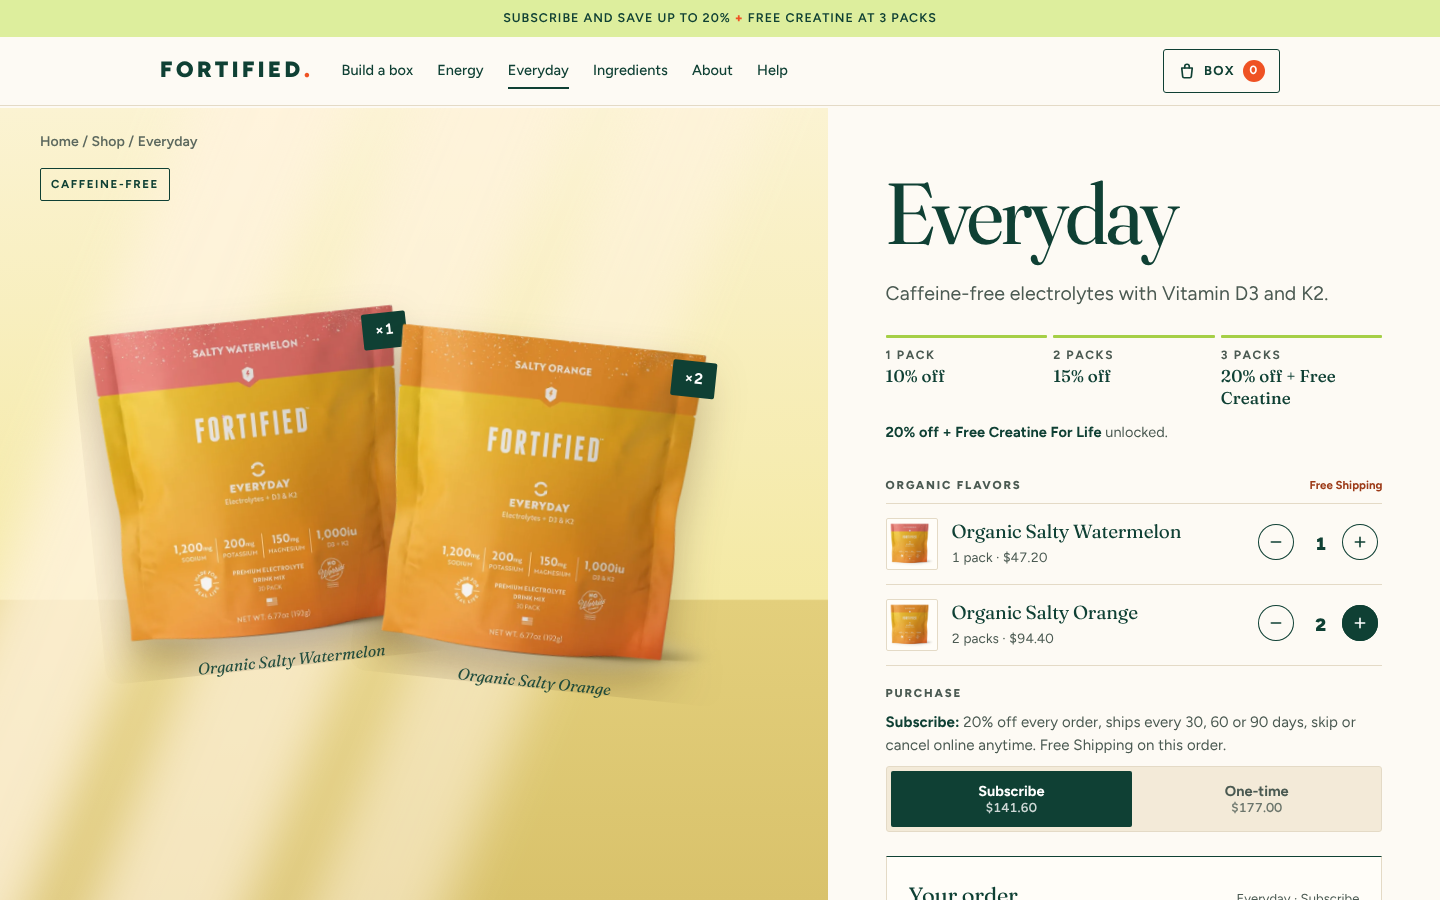
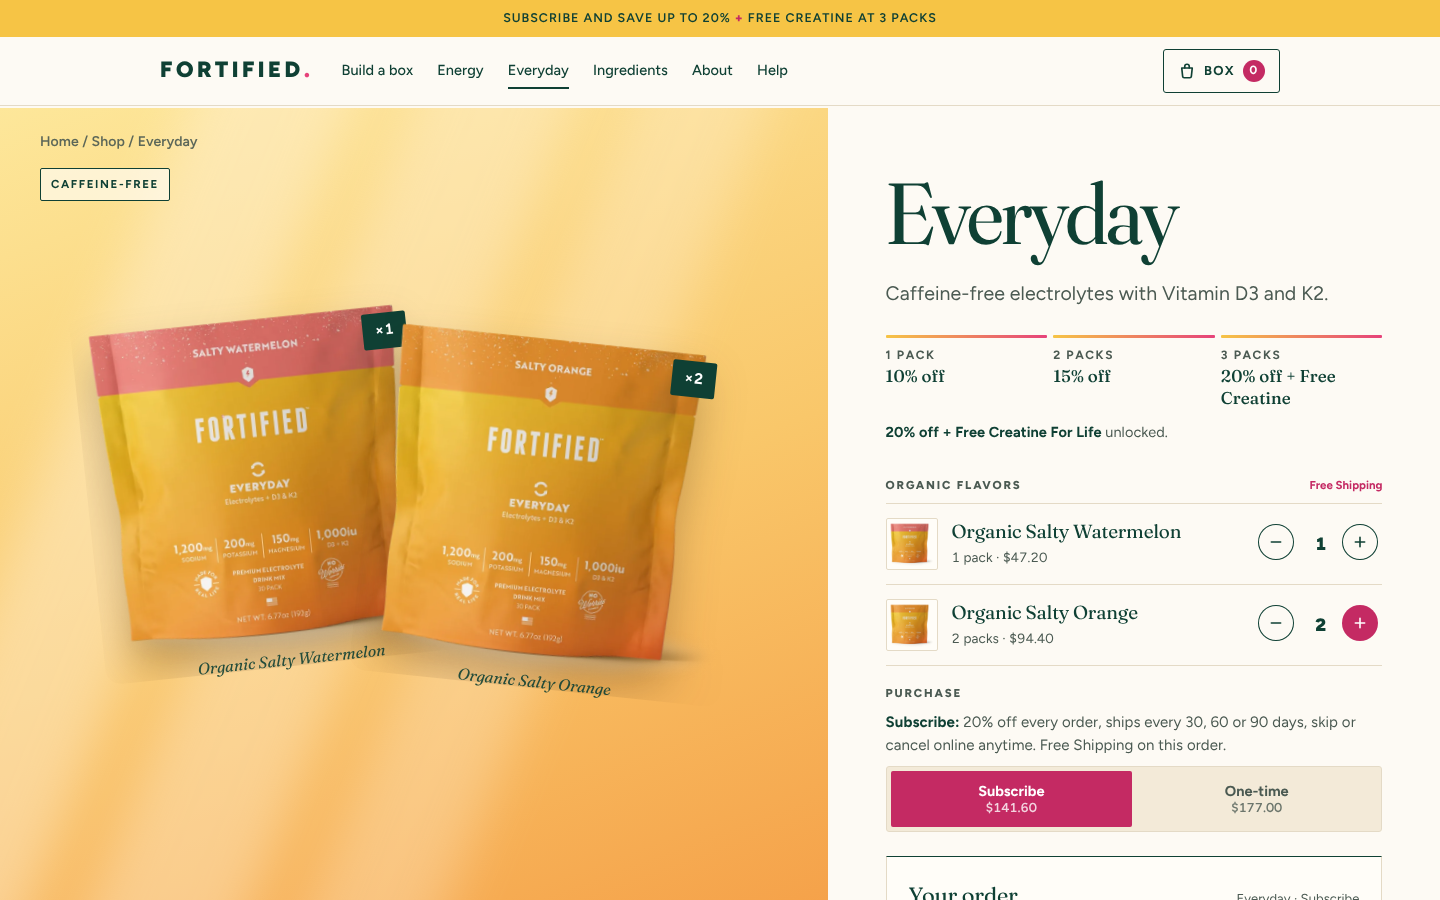
Palette v5: Gen Z pack-forward color on the MAHA trust base
Saturated magenta, sunshine, tangerine, plum and lemon-lime sampled from
the Fortified pouches, used as full bands, flavor-coded formula tiles,
colored savings tiers and a pink-to-sun closing gradient. Sticker
badges carry only printed claims. Gen Z research added to the brief.

Claude-Session: https://claude.ai/code/session_01Hy9Tx2bmaV9u7xgwG4XAGv

diff --git a/mockups/site/site.css b/mockups/site/site.css
@@ -1262,3 +1262,93 @@ section[aria-labelledby="proof-h"] { background: var(--peach); }
 :root { --accent-ink: #9c3a17; }
 section[aria-labelledby="proof-h"] blockquote { color: var(--ink); }
 section[aria-labelledby="label-h"] .lede, section[aria-labelledby="pr-h"] p { color: #33433b; }
+
+/* ======================================================================
+   PALETTE v5 "Pack-forward pop" (2026-11-16): Gen Z saturation on the
+   MAHA trust base. Colors sampled from the Fortified pouches and the
+   brand's fruit photography; cream base and forest text kept.
+   ====================================================================== */
+:root {
+  --pop-magenta: #e6427a;   /* Energy pouch pink, Poppi-adjacent */
+  --pop-berry: #c42a63;     /* magenta deepened for text and buttons (5.2:1 cream, 5.5:1 with white) */
+  --pop-plum: #806793;      /* Energy pouch base */
+  --pop-aubergine: #2d1a3d; /* deep plum for dark bands */
+  --pop-sun: #f6c445;       /* Everyday pouch yellow */
+  --pop-tangerine: #f78523; /* Everyday fruit photo */
+  --pop-lime: #d9f075;      /* lemon-lime */
+  --pop-blush: #fbd3df;
+  --accent: var(--pop-berry);
+  --accent-ink: var(--pop-berry);
+}
+.display em { color: var(--pop-berry); }
+
+/* Header */
+.bar { background: var(--pop-sun); color: var(--ink); }
+.bar b { color: var(--pop-berry); }
+.logo i { color: var(--pop-magenta); }
+.cart-count { background: var(--pop-berry); color: #fff; }
+
+/* Buttons: the money action is berry */
+.btn--money { --bg: var(--pop-berry); --fg: #fff; }
+.btn--money:hover { --bg: #a61f51; }
+
+/* Hero: the counter sits in pack-colored light, plus sticker badges */
+.p-hero__set { background: linear-gradient(115deg, #f9b7cb 0%, #fbd2a4 48%, #fde58f 100%); }
+.p-hero__set::before { opacity: .55; }
+.p-hero__set::after { background: linear-gradient(180deg, rgba(120,40,60,.16), transparent 45%); }
+.sticker { position: absolute; z-index: 3; width: 112px; height: 112px; border-radius: 50%; display: grid; place-items: center; text-align: center; font-weight: 800; font-size: 13px; letter-spacing: .06em; text-transform: uppercase; line-height: 1.05; box-shadow: 0 10px 22px -10px rgba(60,20,40,.5); }
+.sticker b { display: block; font-family: var(--serif); font-size: 34px; font-weight: 600; letter-spacing: -.02em; text-transform: none; }
+.sticker--a { top: 9%; left: 6%; background: var(--pop-lime); color: var(--ink); transform: rotate(-10deg); }
+.sticker--b { top: 12%; right: 7%; background: var(--pop-berry); color: #fff; transform: rotate(9deg); }
+
+/* Bands: flavor-coded color fields */
+section[aria-labelledby="label-h"] { background: var(--pop-lime); }
+section[aria-labelledby="label-h"] .lede { color: #2c3a14; }
+.backpack .p-handnote { background: var(--pop-lime); }
+section[aria-labelledby="fx-h"] { background: var(--paper); }
+.p-formula { border-radius: 4px; padding: 18px 18px 6px; color: var(--ink); }
+.p-formula:nth-child(1) { background: linear-gradient(160deg, var(--pop-sun), var(--pop-tangerine)); }
+.p-formula:nth-child(2) { background: linear-gradient(160deg, var(--pop-magenta), var(--pop-plum)); color: #fff; }
+.p-formula:nth-child(2) .p-formula__text p { color: rgba(255,255,255,.9); }
+.p-formula__text { border-bottom: 0; }
+.p-formula__text p { color: #3a2a0c; }
+section[aria-labelledby="pr-h"] { background: var(--pop-tangerine); }
+section[aria-labelledby="pr-h"] .display em { color: var(--pop-aubergine); }
+section[aria-labelledby="pr-h"] p { color: #2a1a05; }
+section[aria-labelledby="pr-h"] .p-promise { border-top-color: var(--ink); }
+section[aria-labelledby="proof-h"] { background: var(--pop-blush); }
+
+/* Tiers: three colors climbing to the best value */
+.p-tiers { border-top: 0; border-bottom: 0; gap: 10px; }
+.p-tiers > div, .p-tiers > div + div { border: 0; padding: 26px 24px; border-radius: 4px; }
+.p-tiers > div:nth-child(1) { background: var(--pop-sun); }
+.p-tiers > div:nth-child(2) { background: var(--pop-blush); }
+.p-tiers > div.is-best { background: var(--pop-plum); color: #fff; }
+.p-tiers .is-best .p-tiers__pct { color: #fff; }
+.p-tiers .is-best p { color: rgba(255,255,255,.88); }
+
+/* Dark bands go aubergine, footer stays forest */
+.on-dark { background: var(--pop-aubergine); }
+.on-dark .display em { color: var(--pop-sun); }
+.ui__toast { background: var(--pop-lime); }
+.p-close { background: linear-gradient(120deg, var(--pop-magenta) 0%, var(--pop-tangerine) 60%, var(--pop-sun) 100%); color: var(--pop-aubergine); }
+.p-close .display em { color: #fff; }
+.p-close .lede { color: var(--pop-aubergine); }
+.p-close .btn--money { --bg: var(--pop-aubergine); --fg: #fff; }
+.letter__body p:first-child::first-letter { color: var(--pop-magenta); }
+.letter__sign { color: var(--pop-berry); }
+
+/* Product page: stages in each pouch's own saturated light */
+.pd__stage, .field--everyday.pd__stage { background: linear-gradient(160deg, #fde79a 0%, #f9c76a 55%, #f5a24a 100%); }
+.field--energy.pd__stage { background: linear-gradient(160deg, #fbc4d4 0%, #ef8fb0 55%, #b98fc2 100%); }
+.pd__stage::before { opacity: .45; }
+.pd__count { background: var(--pop-berry); color: #fff; }
+.tiers__steps li.is-on .tiers__seg, .progress__fill { background: linear-gradient(90deg, var(--pop-sun), var(--pop-magenta)); }
+.tiers__steps li.is-next .tiers__seg { background: repeating-linear-gradient(90deg, var(--pop-magenta) 0 3px, transparent 3px 7px); }
+.field--everyday .tag, .field--energy .tag { color: var(--ink); background: rgba(255,255,255,.6); }
+.pd-proof .stars { color: var(--pop-sun); }
+.opt__aside, .item--save .item__name, .item--save .item__val, .total-row--save, .pd__save, .p-never li span:last-child, .item--add .item__name::before { color: var(--pop-berry); }
+::selection { background: var(--pop-sun); color: var(--ink); }
+@media (max-width: 640px) { .sticker { width: 84px; height: 84px; font-size: 10.5px; } .sticker b { font-size: 26px; } }
+[data-pp] button[aria-pressed="true"] { background: var(--pop-berry); color: #fff; }
+.stepper.stepper--sm button:not(:disabled):hover { background: var(--pop-berry); box-shadow: none; color: #fff; }

diff --git a/mockups/site/index.html b/mockups/site/index.html
@@ -39,6 +39,8 @@
           <img class="set__stick set__stick--r" src="img/everyday-orange-stick.webp" alt="" aria-hidden="true">
         </div>
         <!-- Client photo slot: replace this styled set with a photograph of the packs on a real kitchen counter in late-afternoon light. -->
+        <span class="sticker sticker--a"><span><b>0g</b>sugar</span></span>
+        <span class="sticker sticker--b"><span><b>No</b>dyes</span></span>
         <figcaption class="set__note">Product renders on a styled counter. Swap for a real counter photograph.</figcaption>
       </figure>
     </div>

diff --git a/mockups/site/RESEARCH-maha-moms.md b/mockups/site/RESEARCH-maha-moms.md
@@ -75,3 +75,18 @@ Homepages loaded in a real browser at 1440px; colors are the ones covering the m
 **Pattern:** a bright warm cream base (not grey beige), one deep earthy anchor (forest, moss, denim, brown or near-black) for text and buttons, and one or two confident food-colored accents (tomato, lime, peach, caramel). Real, warm product and food photography carries most of the color. Nobody in this set leans on muted all-beige pages.
 
 **What Fortified should take from it:** keep the bright cream base, use its own navy #0b1c29 as the deep anchor (it sits naturally next to Ballerina Farm's denim and Redmond's deep teal), and let the warm orange from the packs be the confident accent, with peach as the soft wash. Teal stays as a small brand mark.
+
+## Gen Z color research (2026-11-16)
+
+**Evidence quality:** no rigorous, large-sample study isolates Gen Z color preferences. Findings below are directional.
+- A 2026 SPIE conference paper reports Gen Z favors visually engaging colors tied to self-expression, with effects that depend on product category.
+- Trendalytics' 2026 to 2028 forecast names citrus yellow, electric blue and bold magenta (commercial forecast, not a survey).
+- Fast Company's coverage of the Mio rebrand describes Gen Z wanting maximalism and bright colors over minimalism.
+- Better-for-you beverage brands give each flavor its own color instead of one signature color (CBX strategist via BeverageDaily). Poppi is described as bold and playful; Olipop's 2026 Collins redesign moved to saturated, 60s and 70s pop art color.
+- Unofficial Poppi colors: pink #E6427A, sunshine yellow #F6C445 (fan brand guide, not official).
+- Overly polished, corporate design reads as out of touch to Gen Z (industry article), which agrees with the MAHA finding.
+- The widely quoted "51% choose brands by color" figure is mostly millennials, not Gen Z, so it was not used.
+
+**Limit:** the Gen Z brand homepages (Poppi, Olipop, Bloom, Liquid I.V., LMNT) were added to the network allowlist, but the automated color measurement was blocked by this session's permission check, so their colors were not measured directly.
+
+**Applied (palette v5, "pack-forward pop"):** keep the MAHA trust base (cream ground, forest text, plain label, no politics) and add Gen Z saturation taken from Fortified's own pouches, which already sit in that range: magenta #e6427a and berry #c42a63, sunshine #f6c445, tangerine #f78523, plum #806793, lemon-lime #d9f075. Each formula gets its own color field, bands are saturated, and two sticker badges use only claims printed on the pack (0g sugar, no dyes).

diff --git a/DESIGN.md b/DESIGN.md
@@ -108,3 +108,20 @@ The owner judged v3 (navy and berry-rose) unlike any competitor. v4 takes every 
 | `--tomato` | #ef5223 | Ballerina Farm | Logo dot, cart count, drop cap |
 | `--accent` / `--accent-ink` | #c64a1c / #9c3a17 | tomato deepened for text contrast | Italic display words; small accent text |
 | `--caramel` | #c47d3e | Ballerina Farm | Review stars |
+
+## Palette v5: pack-forward pop (2026-11-16, current)
+
+Owner asked for more color, informed by Gen Z preferences. See the Gen Z section in `mockups/site/RESEARCH-maha-moms.md`. Base stays cream #fdfaf4 with forest #0f4034 text and footer; saturation comes from the pouches.
+
+| Token | Value | Use |
+|---|---|---|
+| `--pop-berry` | #c42a63 | Primary buttons, italic display words, savings text (5.2:1 on cream) |
+| `--pop-magenta` | #e6427a | Logo dot, drop cap, gradients, Energy color |
+| `--pop-sun` | #f6c445 | Announcement bar, 10% tier, Everyday color |
+| `--pop-tangerine` | #f78523 | Promise band, Everyday gradient |
+| `--pop-plum` | #806793 | 20% tier, Energy gradient |
+| `--pop-aubergine` | #2d1a3d | Subscription demo band, text on gradients |
+| `--pop-lime` | #d9f075 | Label band, "0g sugar" sticker |
+| `--pop-blush` | #fbd3df | Proof band, 15% tier |
+
+Stickers may only carry claims printed on the pack.
